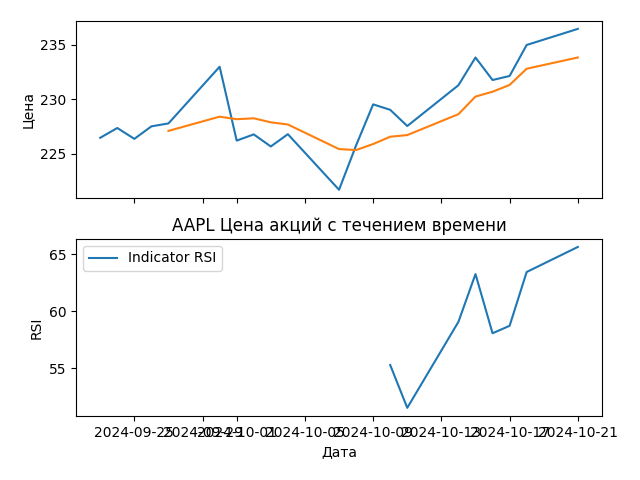
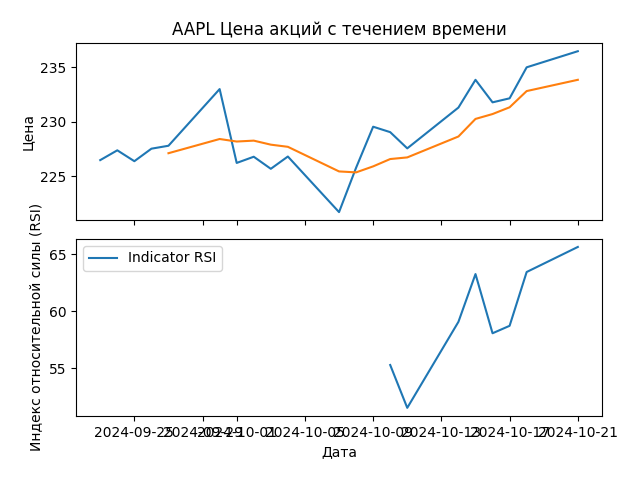
4

diff --git a/data_plotting.py b/data_plotting.py
@@ -31,8 +31,8 @@ def create_and_save_plot(data, ticker, period, filename=None):
         ax1.plot(data['Date'], data['Moving_Average'], label='Moving Average')
 
         ax2.plot(data['Date'], dd.indicators_RSI(ticker, period), label='Indicator RSI')
-    plt.title(label=f"{ticker} Цена акций с течением времени", loc="center")
-
+    ax1.set_title(label=f"{ticker} Цена акций с течением времени", loc="center")
+    ax2.set_title(label="Индекс относительной силы(RSI)", loc="center")
     plt.xlabel("Дата")
     ax1.set_ylabel('Цена')
     ax2.set_ylabel('RSI')
